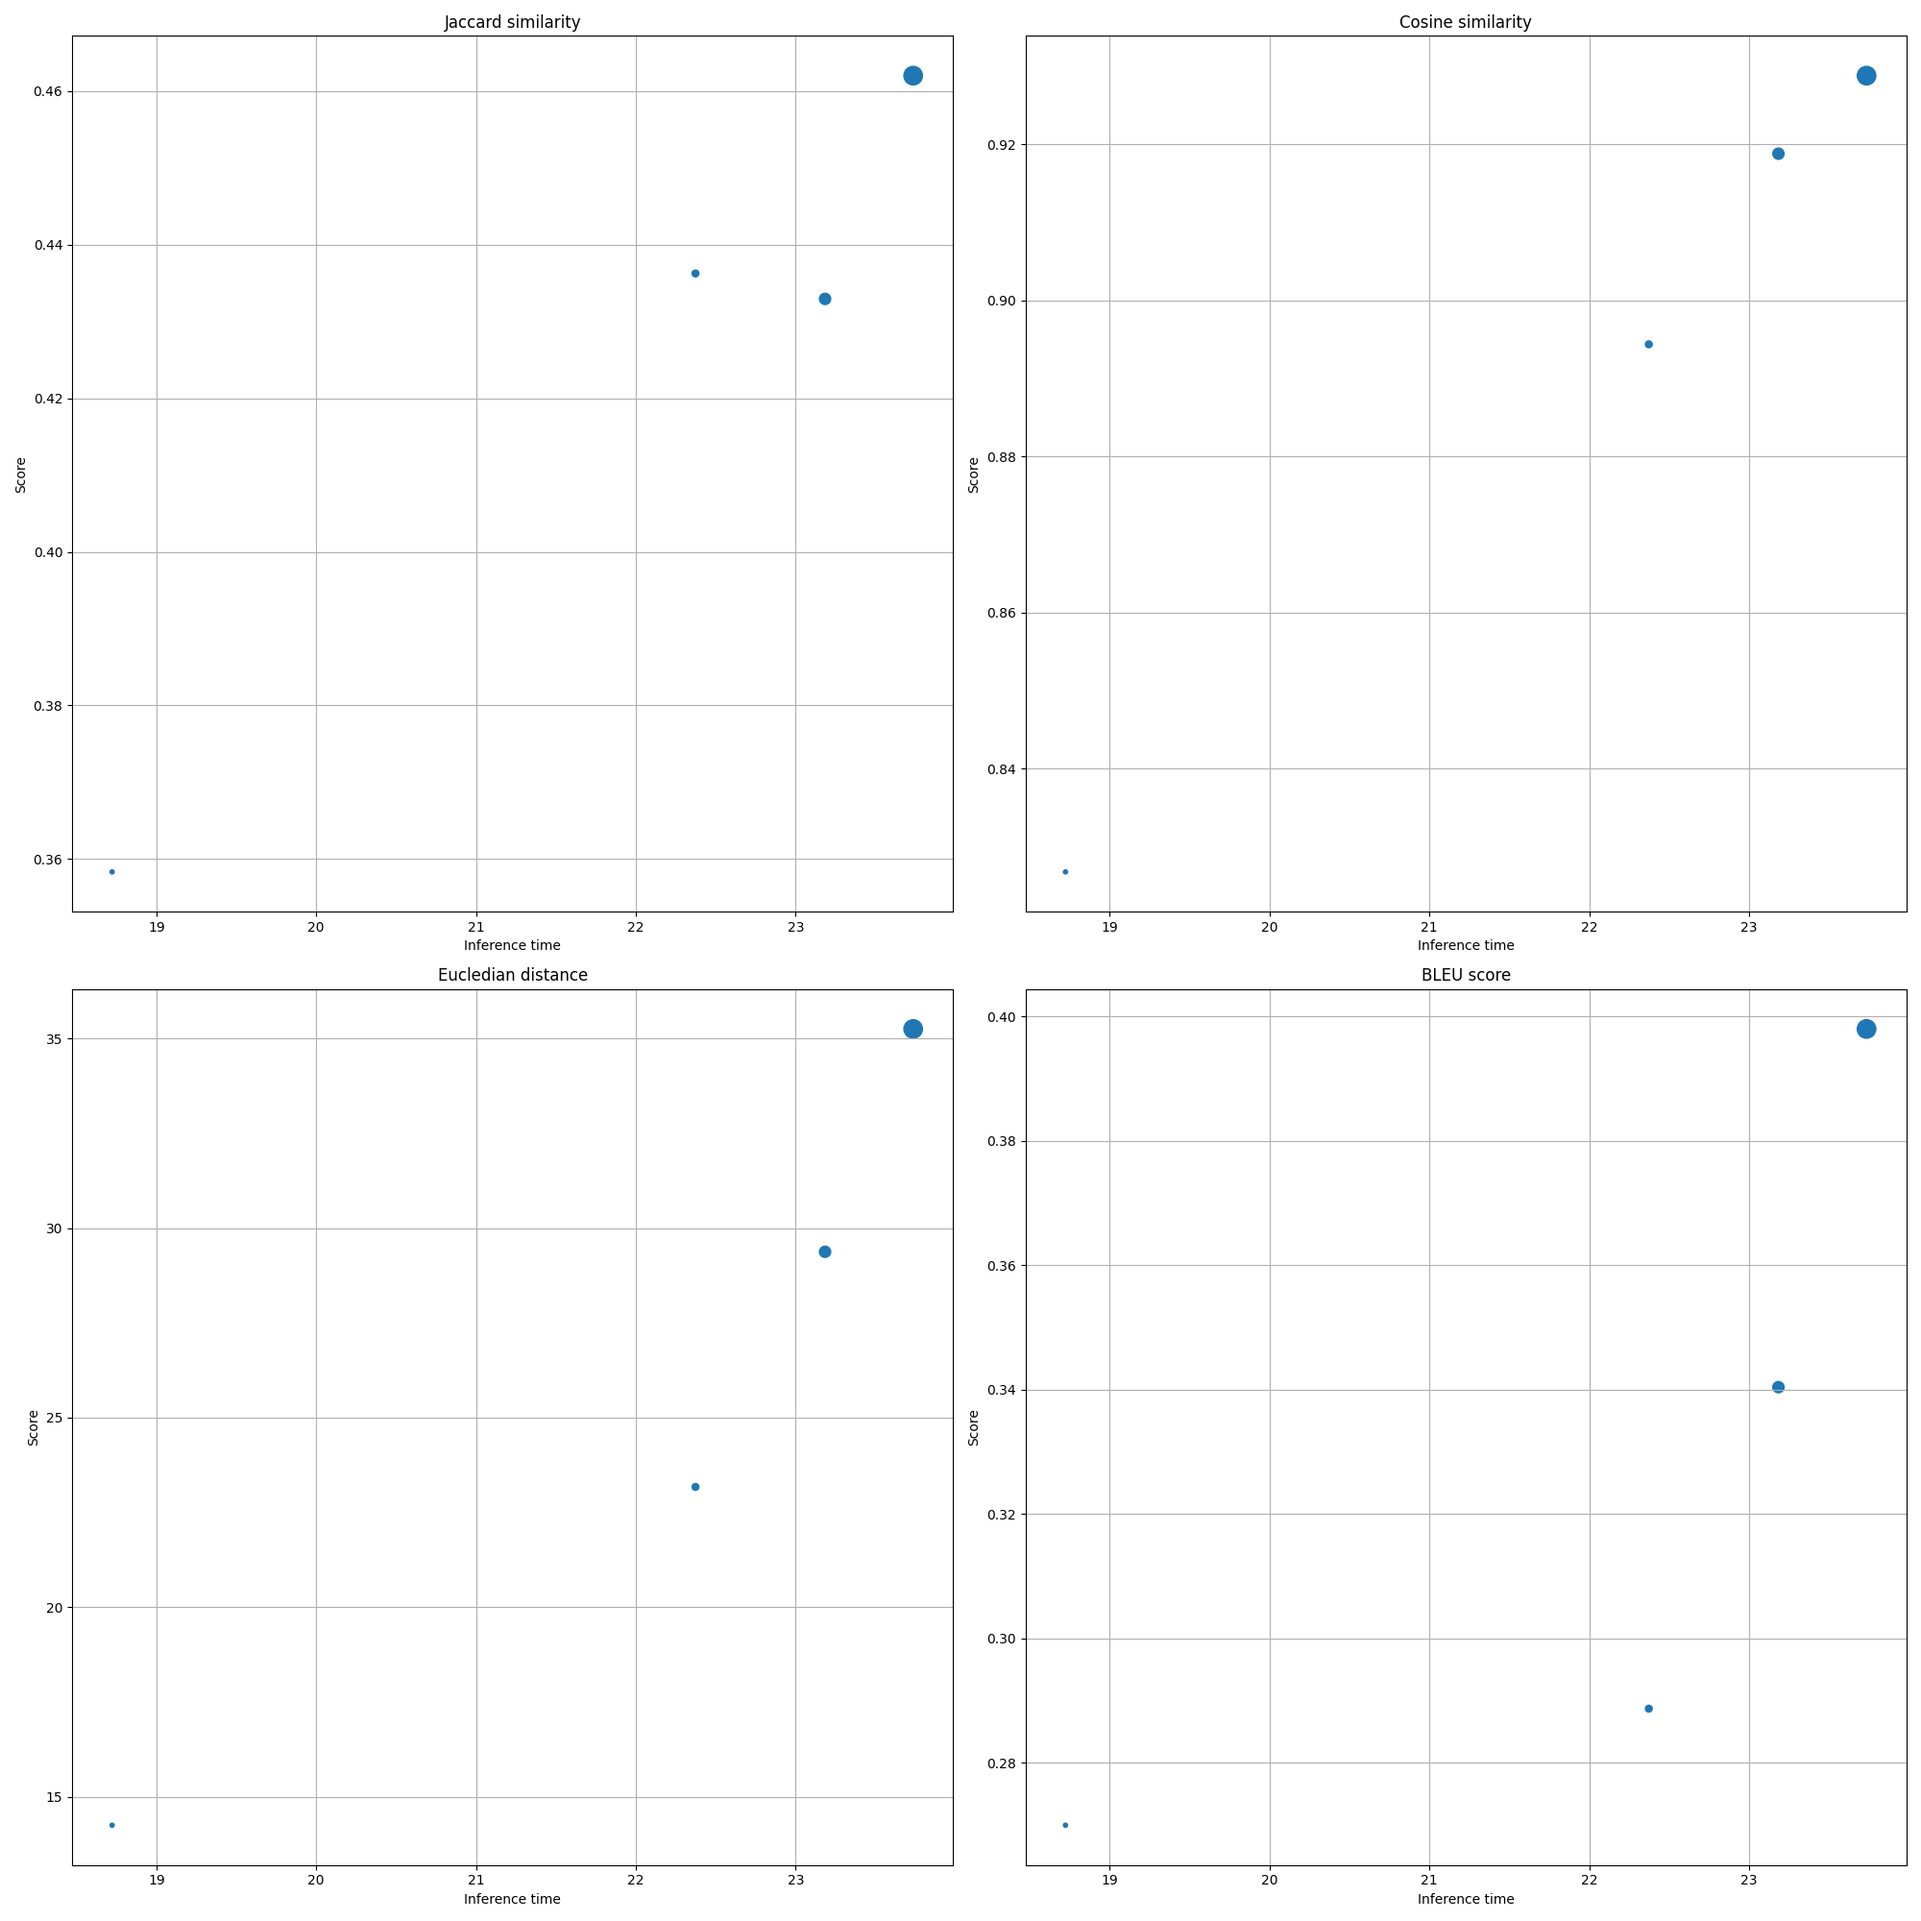
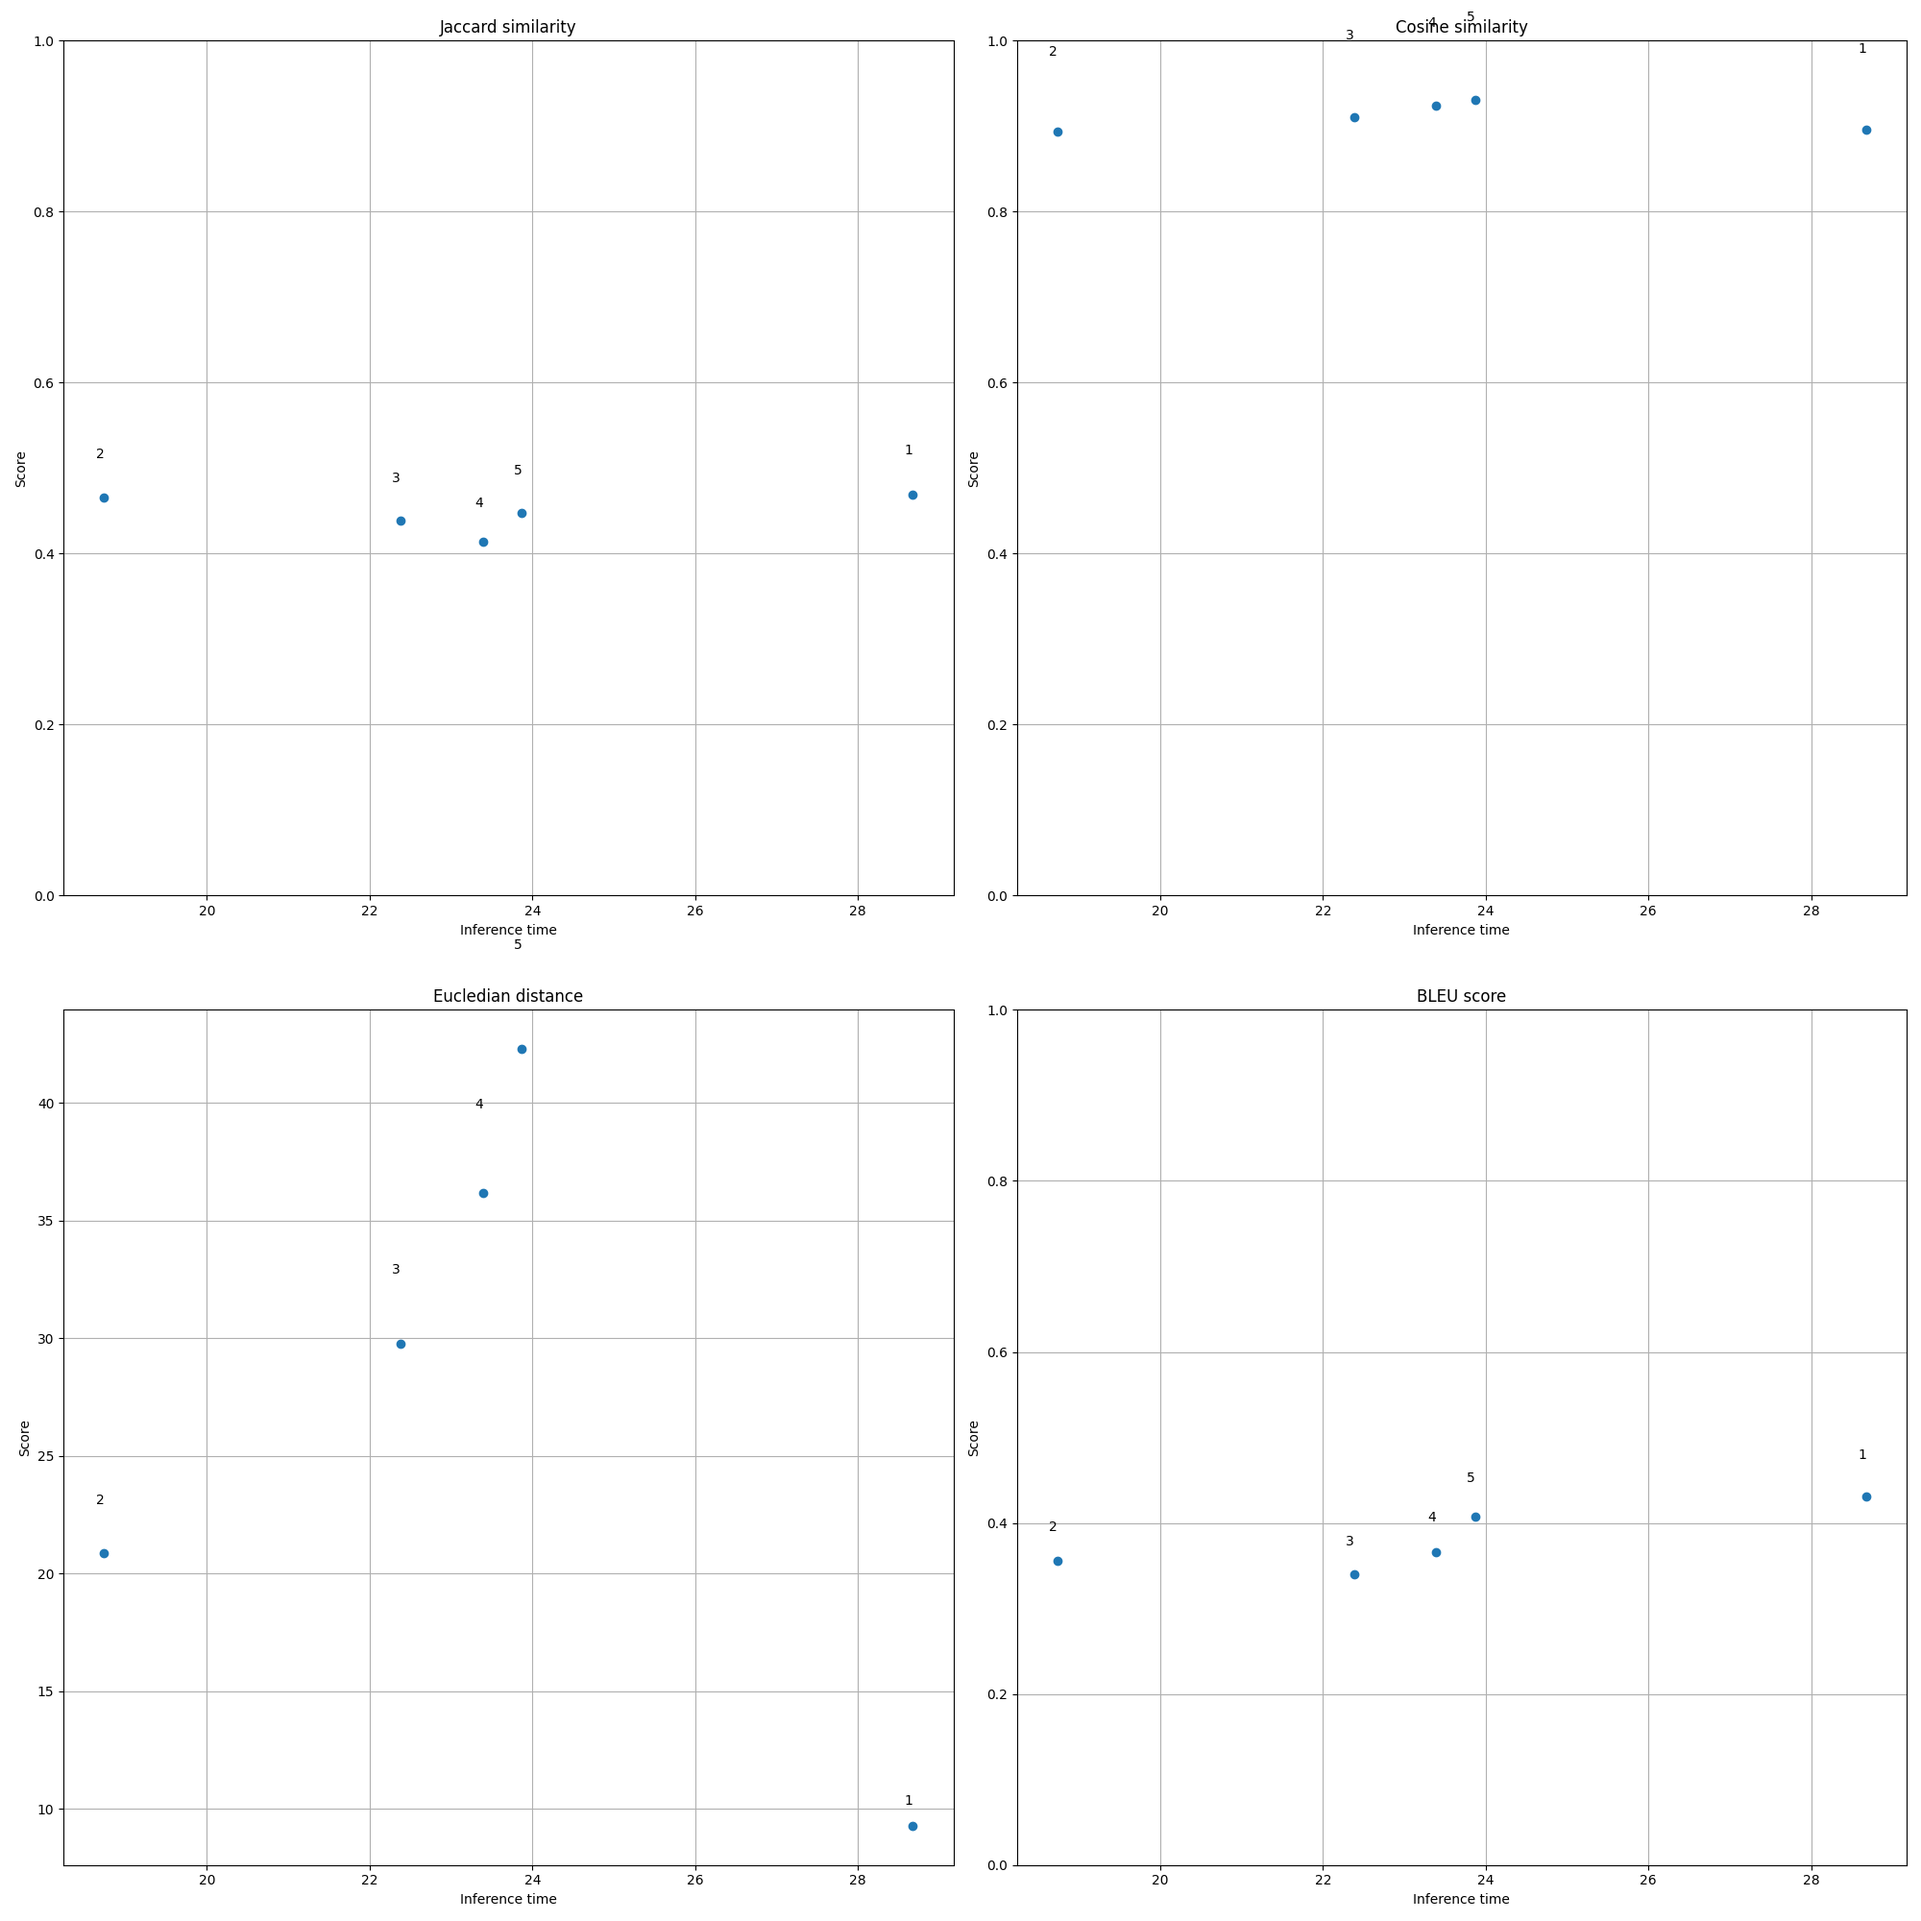
hb2776 changing visualization code

diff --git a/harsh_files/main.py b/harsh_files/main.py
@@ -95,7 +95,7 @@ def infer_forward(text):
     input_stream += text
     
     start = time.time()
-    output = llm_forward(text, max_length=1000)
+    output = llm_forward(text, max_length=5000)
     curr_time += time.time() - start
     
     translated_text = output[0]['translation_text']
@@ -105,11 +105,14 @@ def infer_forward(text):
 def infer_backward(text):
     global output_stream
     
-    output = llm_backward(text.split(evaluate.SEP)[1], max_length=1000)
+    output = llm_backward(text.split(evaluate.SEP)[1], max_length=5000)
     translated_text = output[0]['translation_text']
     output_stream += translated_text
     return text.split(evaluate.SEP)[0] + evaluate.SEP + translated_text
 
+
+def show_backward_translations(element):
+    print(element.split(evaluate.SEP)[1])
 
 def evaluate_all(chunk_s):
     global results, input_stream, output_stream, curr_time, time_taken
@@ -119,42 +122,55 @@ def evaluate_all(chunk_s):
     chunk_size.append(chunk_s)
     time_taken.append(curr_time)
     curr_time = 0.0
-    
-    
-def softmax_and_scale(x, scale=300.0):
-    exp_x = np.exp(x - np.max(x))  
-    s = exp_x * scale / exp_x.sum(axis=0)
-    print(s)
-    return s
-    
 
+def min_max_scaling(data):
+    min_val = min(data)
+    max_val = max(data)
+    scaled_data = [((x - min_val) / (max_val - min_val) + 2.0) * 10 for x in data] 
+    return scaled_data
+    
 def visualize(chunk, scores, times):
-    chunk = softmax_and_scale(chunk)
+    # chunk = min_max_scaling(chunk)
     
     fig, axs = plt.subplots(2, 2, figsize=(20, 20))
     
-    axs[0, 0].scatter(times, [t[0] for t in scores], s=chunk)
+    jaccards = [t[0] for t in scores]
+    axs[0, 0].scatter(times, jaccards)
+    for i, key in enumerate(chunk):
+        axs[0, 0].text(times[i], jaccards[i]*1.1, key, ha="right")
     axs[0, 0].set_title('Jaccard similarity')
     axs[0, 0].set_xlabel('Inference time')
     axs[0, 0].set_ylabel('Score')
+    axs[0, 0].set_ylim(0, 1)
     axs[0, 0].grid(True)
-
-    axs[0, 1].scatter(times, [t[1] for t in scores], s=chunk)
+    
+    cosines = [t[1] for t in scores]
+    axs[0, 1].scatter(times, cosines)
+    for i, key in enumerate(chunk):
+        axs[0, 1].text(times[i], cosines[i]*1.1, key, ha="right")
     axs[0, 1].set_title('Cosine similarity')
     axs[0, 1].set_xlabel('Inference time')
     axs[0, 1].set_ylabel('Score')
+    axs[0, 1].set_ylim(0, 1)
     axs[0, 1].grid(True)
-
-    axs[1, 0].scatter(times, [t[2] for t in scores], s=chunk)
+    
+    eucledians = [t[2] for t in scores]
+    axs[1, 0].scatter(times, eucledians)
+    for i, key in enumerate(chunk):
+        axs[1, 0].text(times[i], eucledians[i]*1.1, key, ha="right")
     axs[1, 0].set_title('Eucledian distance')
     axs[1, 0].set_xlabel('Inference time')
     axs[1, 0].set_ylabel('Score')
     axs[1, 0].grid(True)
-
-    axs[1, 1].scatter(times, [t[3] for t in scores], s=chunk)
+    
+    bleus = [t[3] for t in scores]
+    axs[1, 1].scatter(times, bleus)
+    for i, key in enumerate(chunk):
+        axs[1, 1].text(times[i], bleus[i]*1.1, key, ha="right")
     axs[1, 1].set_title('BLEU score')
     axs[1, 1].set_xlabel('Inference time')
     axs[1, 1].set_ylabel('Score')
+    axs[1, 1].set_ylim(0, 1)
     axs[1, 1].grid(True)
     
     plt.tight_layout()
@@ -204,8 +220,8 @@ if __name__ == "__main__":
         
     
     # run the pipeline
-    for chunk in [1, 2, 3, 4, 5, 6, 7, 8, 9, 10, 15, 25, 50, 75, 100]:
-        print(time.time(), "currently inferencing on chunk size:", chunk)
+    for chunk in [1, 2, 3, 4, 5]:
+        print(int(time.time() - start_time), "currently inferencing on chunk size:", chunk)
         with beam.Pipeline() as beam_pipeline:
             outputs = (
                 beam_pipeline
@@ -214,7 +230,7 @@ if __name__ == "__main__":
                 | 'chunk data' >> beam.ParDo(ChunkIntoNSentences(chunk))
                 | 'make forward translation' >> beam.Map(infer_forward) 
                 | 'make backward translation' >> beam.Map(infer_backward) 
-                # | 'print' >> beam.Map(print)
+                | 'print' >> beam.Map(show_backward_translations)
             )
 
         evaluate_all(chunk)
